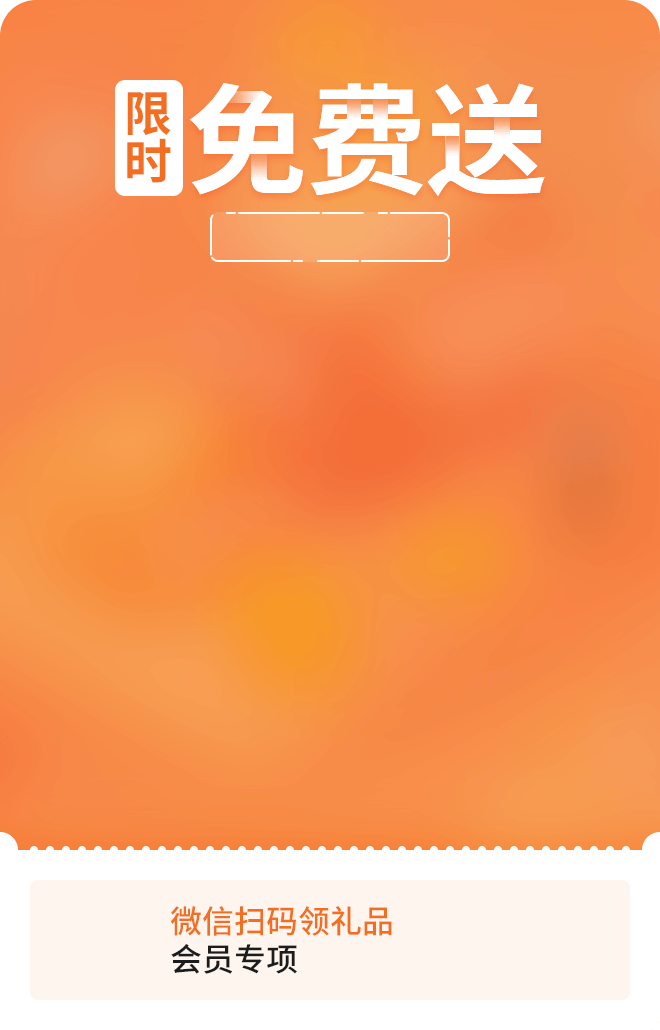
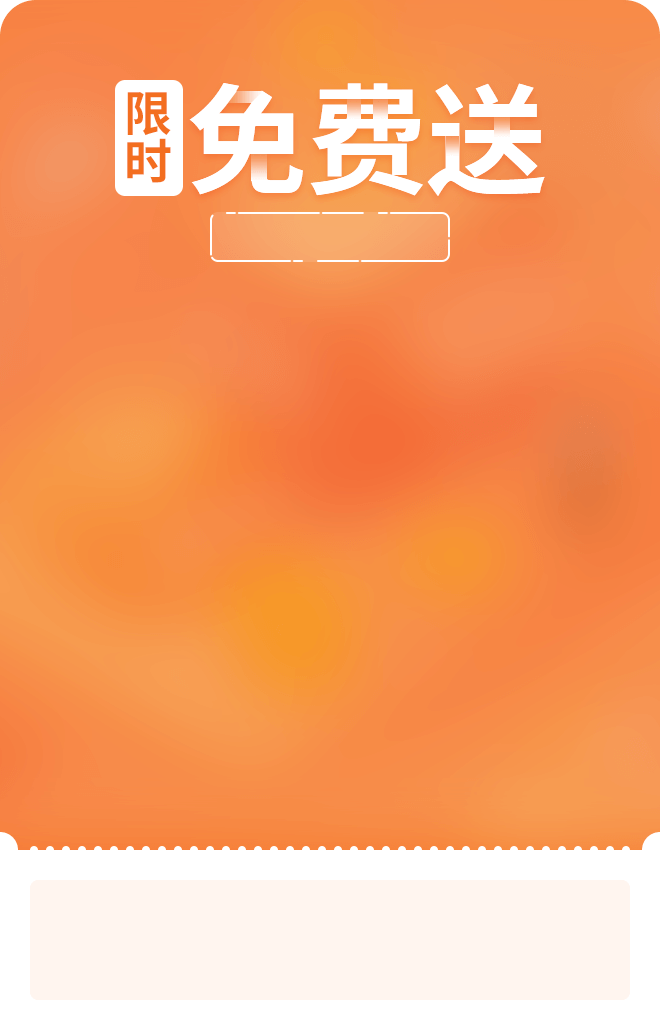
修改文案

Changed region(s): [[0.2424, 0.8699, 0.6061, 0.9631]]

diff --git a/h5view/src/views/Home.vue b/h5view/src/views/Home.vue
@@ -35,6 +35,8 @@
       <p class="text-num">已送出{{cardInfo.num}}{{cardInfo.unit}}</p>
       <img :src="cardInfo.goods_img" class="goods-img">
       <img :src="cardInfo.mini_code" class="mini-code">
+      <p class="prompt-text color-y">微信扫码领礼品</p>
+      <p class="prompt-text">会员专享</p>
     </div>
     <div class="ft" v-show="infoStatus.hasGroupInfo&&infoStatus.hasCardInfo">
       <div
@@ -217,7 +219,7 @@ export default {
     background-color: #ededed;
     overflow: hidden;
     .qrcode {
-      width: 0.6rem;
+      width: 0.7rem;
       margin-right: 0.1rem;
     }
   }
@@ -258,6 +260,17 @@ export default {
     top: 4.4rem;
     left: 0.3rem;
     right: 0;
+  }
+  .prompt-text{
+    position: absolute;
+    top: 4.73rem;
+    left: 1rem;
+    right: 0;
+    font-size: .16rem;
+    line-height: .16rem;
+    &.color-y{
+      top: 4.53rem;
+    }
   }
 }
 
